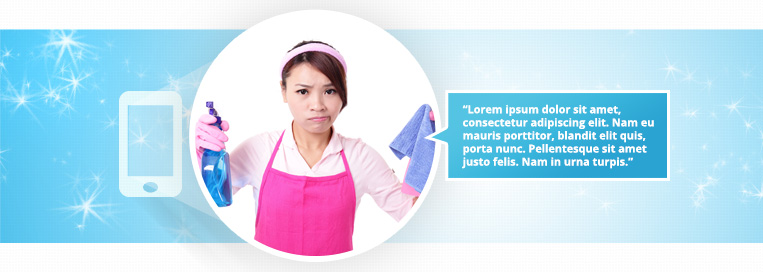
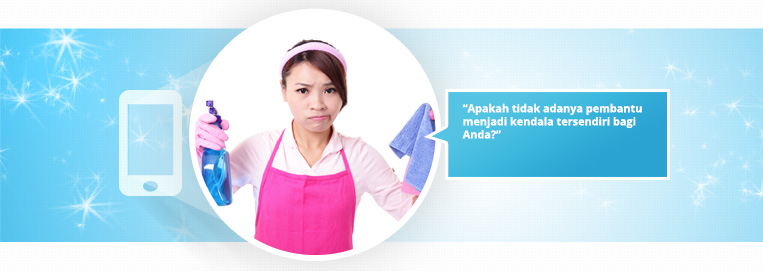
copy how to popup

diff --git a/wp-content/themes/veja/footer.php b/wp-content/themes/veja/footer.php
@@ -25,12 +25,12 @@
       <div class='modal-dialog'>
         <div class='modal-content'>
           <div class='modal-body'>
-            <h4 class='text-center'>Testimonial Campaign</h4>
+            <h4 class='text-center'>Testimoni Campaign</h4>
             <h5 class='text-center'>"Apa Jadinya Indonesia Tanpa Asisten Rumah Tangga?"</h5>
             <img src='<?php echo get_stylesheet_directory_uri(); ?>/assets/images/pop-up.jpg'>
-            <p>Sed accumsan vulputate libero in convallis. Nunc eget dui lacus. Quisque lobortis mi ac erat pulvinar commodo. Ut dapibus in odio vitae consectetur.</p>
+            <p>Bagi Anda para Supermama, pastinya hal tersebut tidak menjadi halangan. Tunjukkan sisi Supermama Anda dengan menjadi bagian dalam kumpulan Supermama Indonesia bersama Veja.</p>
             <div class='text-center'>
-              <a class='btn btn-danger' href='<?php echo esc_url( get_permalink( get_page_by_title( 'How To' ) ) ); ?>'>How To</a>
+              <a class='btn btn-danger' href='<?php echo esc_url( get_permalink( get_page_by_title( 'How To' ) ) ); ?>'>Cara Ikutan</a>
             </div>
           </div>
         </div>
